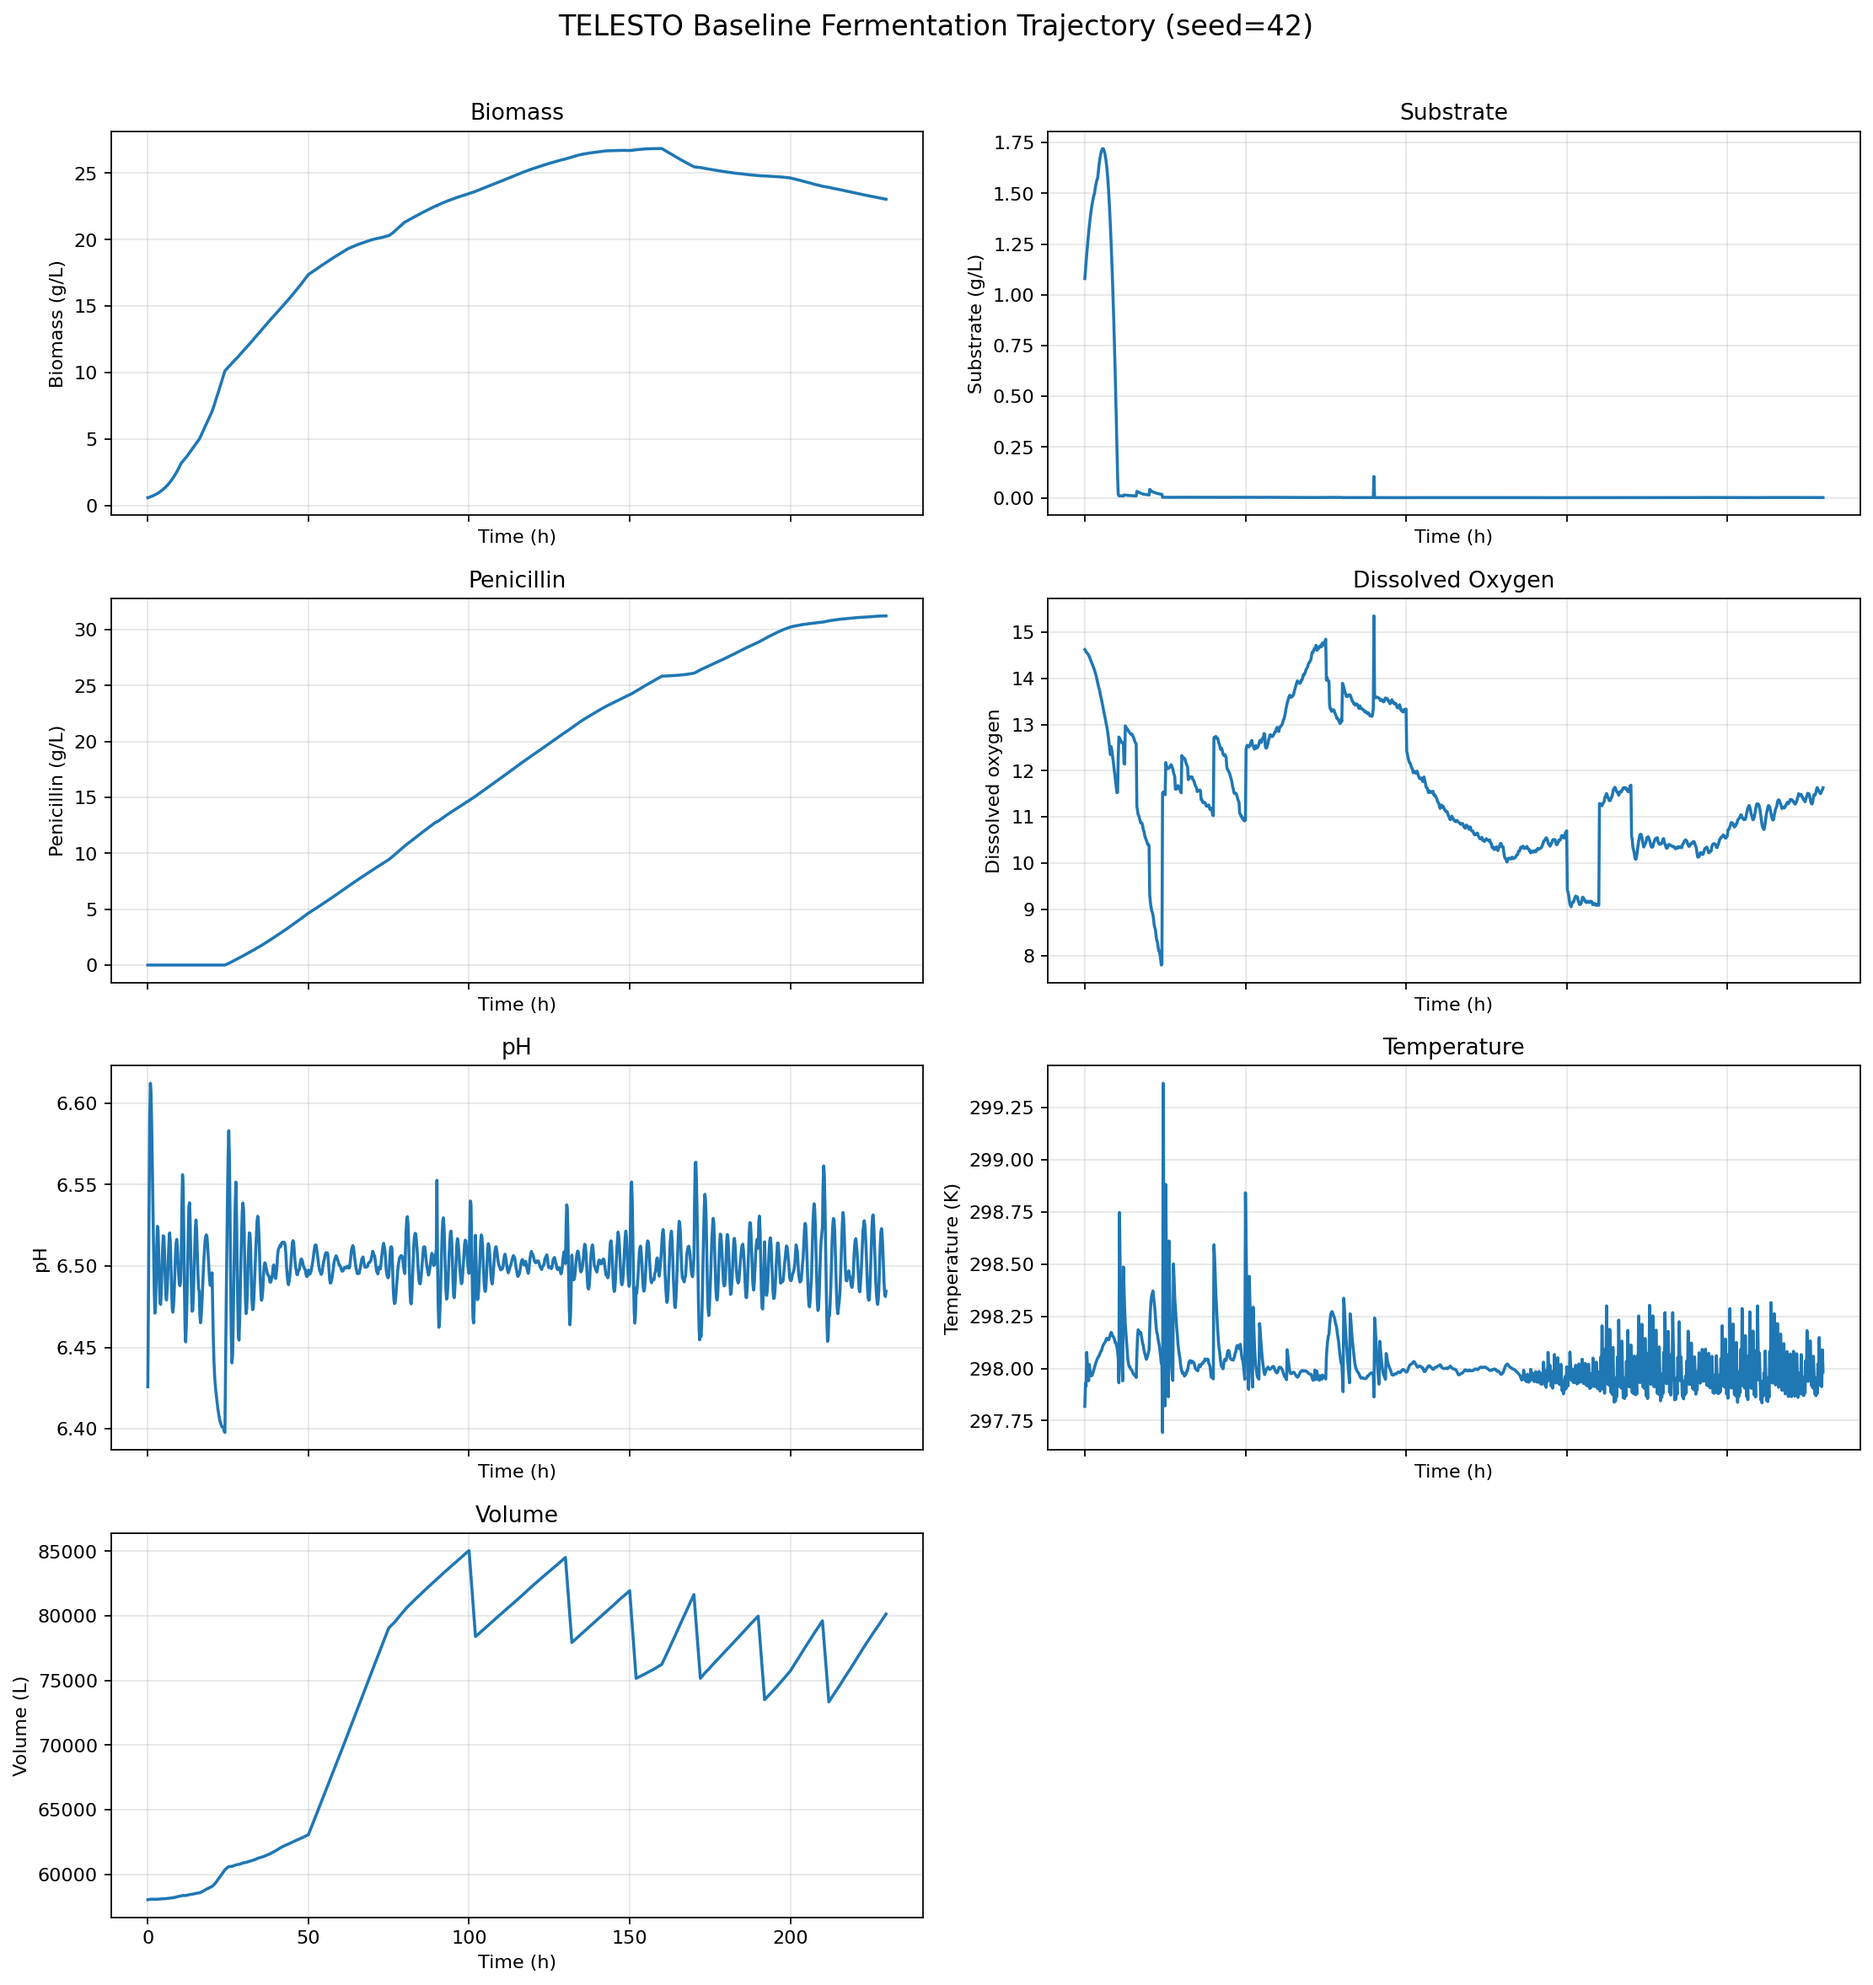
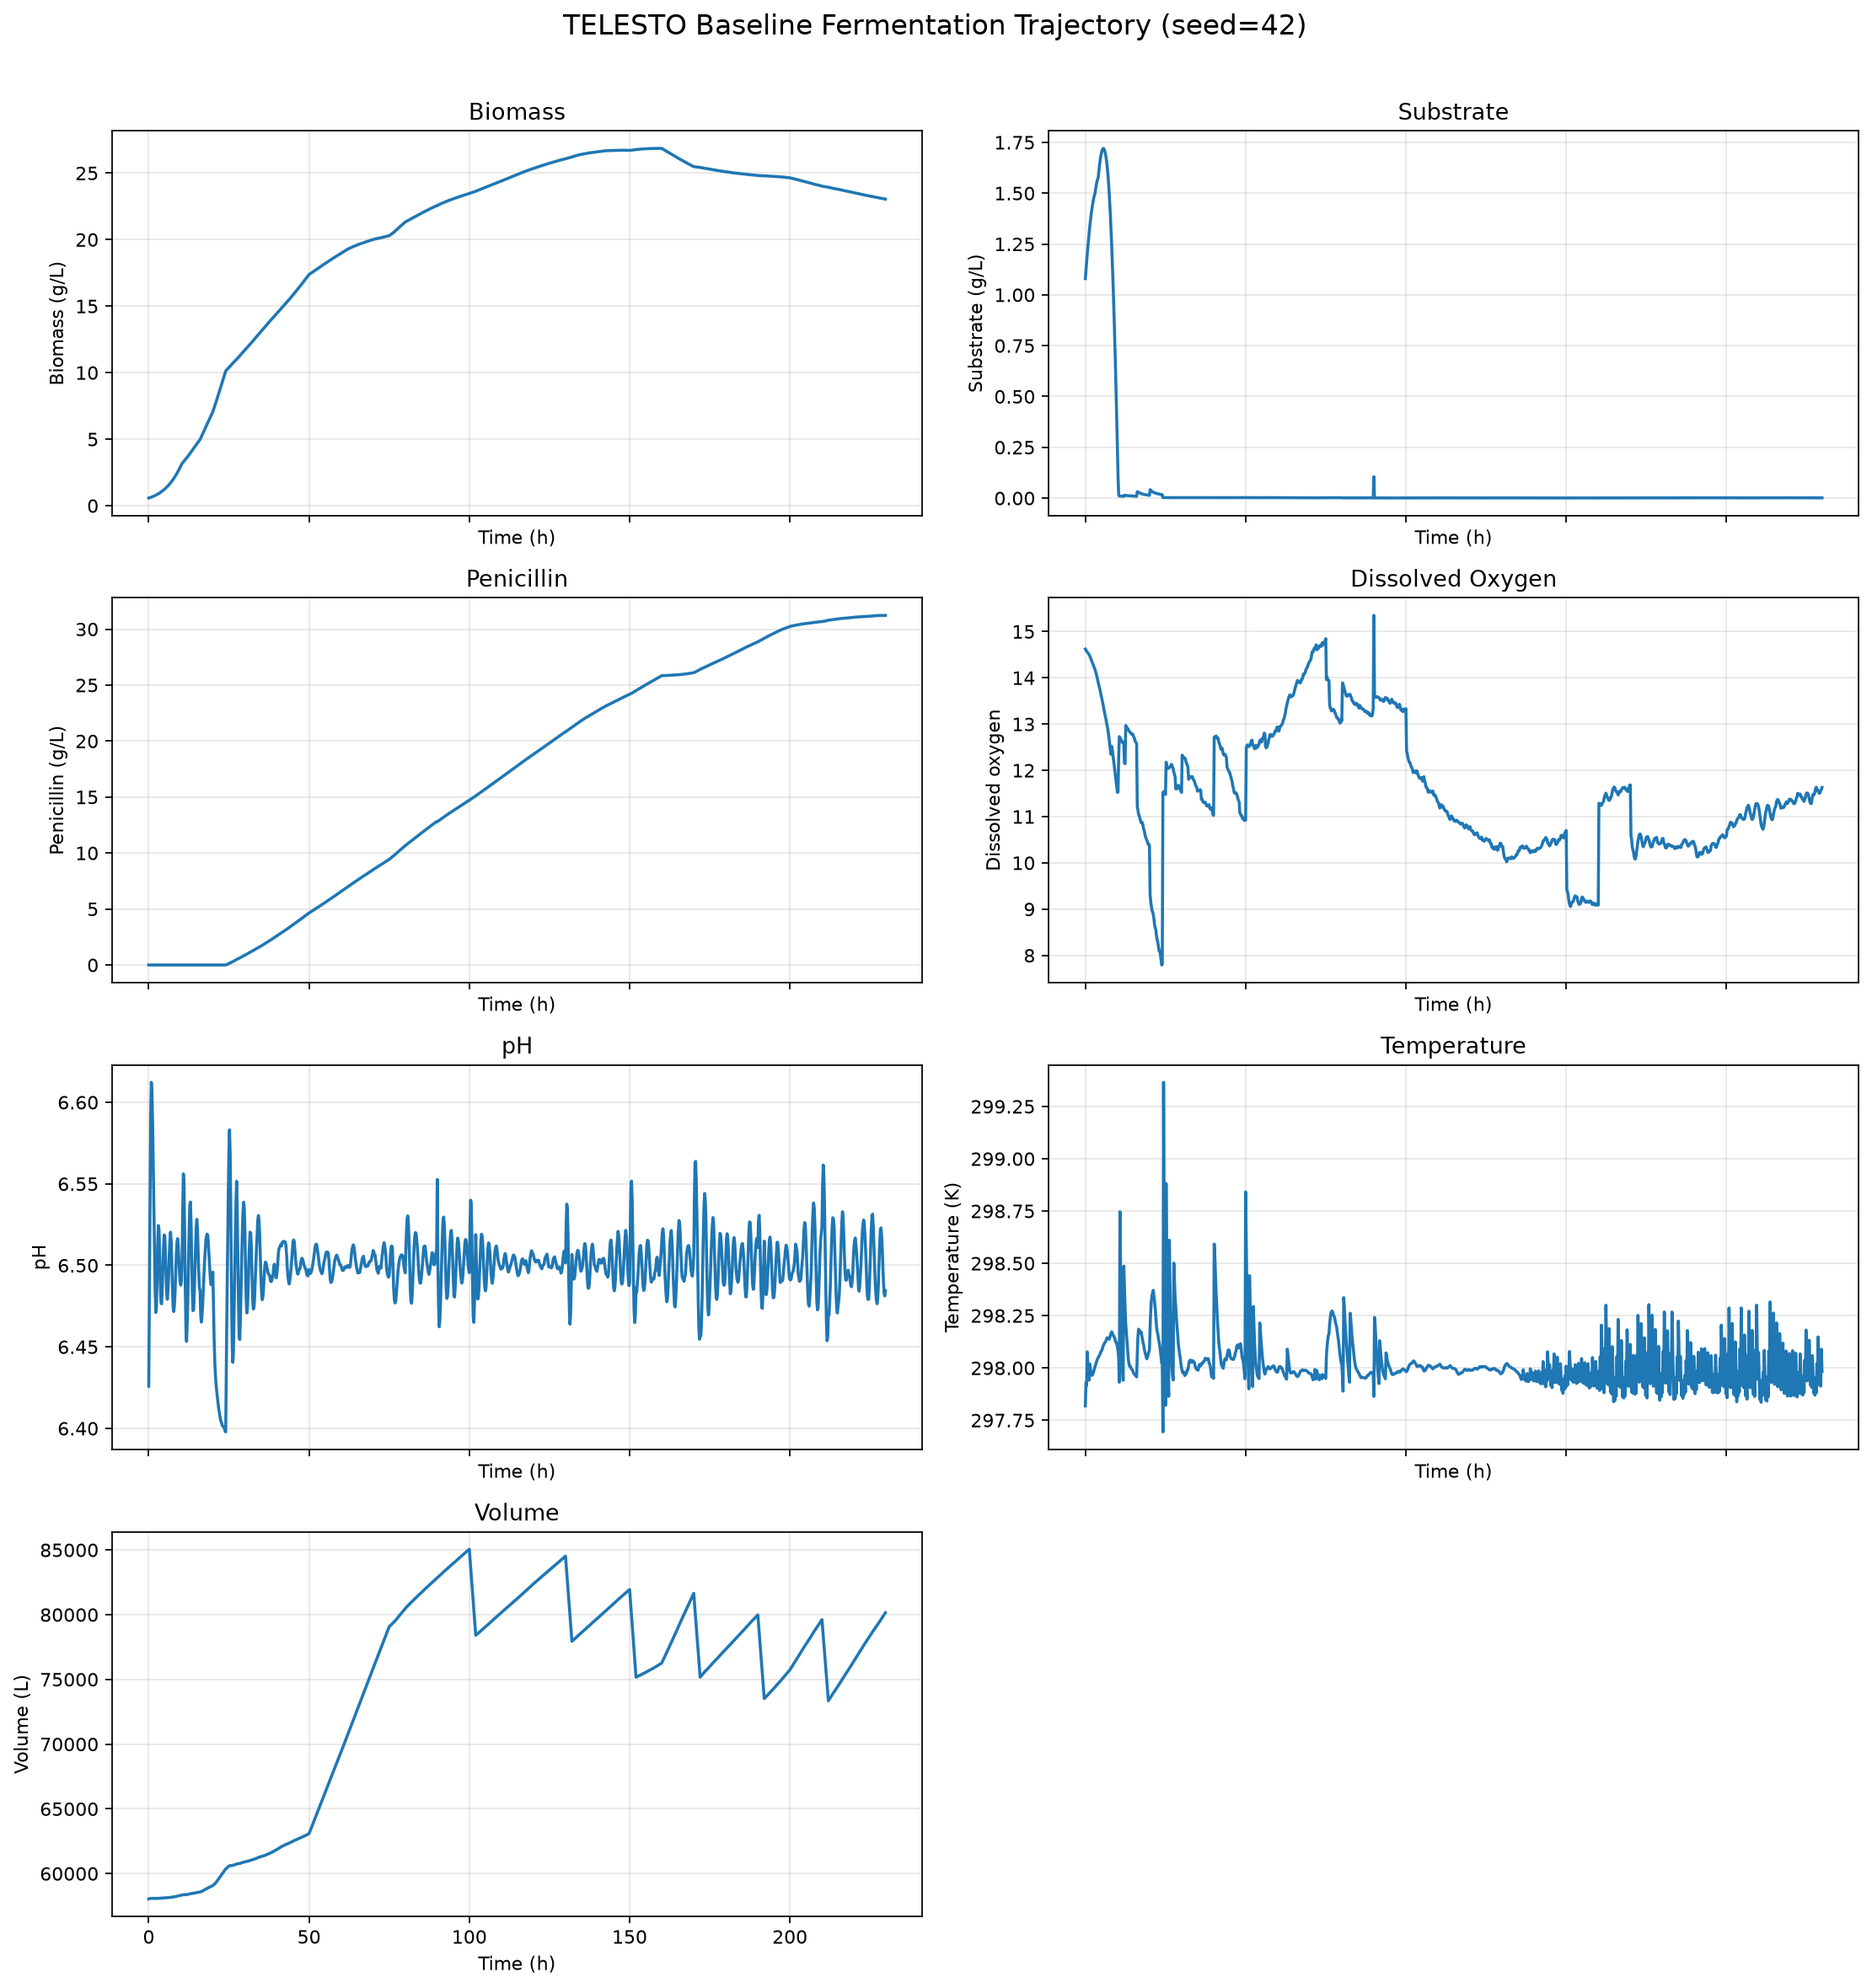
Complete Phase 1 fermentation exit review

diff --git a/tests/test_fermentation_reproducibility.py b/tests/test_fermentation_reproducibility.py
@@ -1,11 +1,46 @@
 import numpy as np
+import pytest
 
-from biocontrolos.process.fermentation.simulator import FermentationSimulator
+from biocontrolos.process.fermentation.simulator import (
+    FermentationBatch,
+    FermentationSimulator,
+)
 
 
-def test_same_seed_produces_same_batch():
+@pytest.fixture(scope="module")
+def seeded_batches() -> tuple[FermentationBatch, FermentationBatch, FermentationBatch]:
     batch_1 = FermentationSimulator(seed=42).run_batch()
     batch_2 = FermentationSimulator(seed=42).run_batch()
+    batch_3 = FermentationSimulator(seed=43).run_batch()
+    return batch_1, batch_2, batch_3
+
+
+def _major_trajectories(batch: FermentationBatch) -> tuple[np.ndarray, ...]:
+    return (
+        batch.biomass,
+        batch.substrate,
+        batch.penicillin,
+        batch.dissolved_oxygen,
+        batch.pH,
+        batch.temperature,
+        batch.volume,
+    )
+
+
+def test_baseline_batch_integrity(seeded_batches):
+    batch, _, _ = seeded_batches
+    trajectories = _major_trajectories(batch)
+
+    assert batch.samples > 0
+    assert batch.duration_hours > 0
+    assert np.all(np.isfinite(batch.time))
+    assert np.all(np.diff(batch.time) > 0)
+    assert all(len(values) == batch.samples for values in trajectories)
+    assert all(np.all(np.isfinite(values)) for values in trajectories)
+
+
+def test_same_seed_produces_same_batch(seeded_batches):
+    batch_1, batch_2, _ = seeded_batches
 
     np.testing.assert_array_equal(batch_1.time, batch_2.time)
     np.testing.assert_array_equal(batch_1.substrate, batch_2.substrate)
@@ -18,3 +53,16 @@ def test_same_seed_produces_same_batch():
     np.testing.assert_array_equal(batch_1.pH, batch_2.pH)
     np.testing.assert_array_equal(batch_1.temperature, batch_2.temperature)
     np.testing.assert_array_equal(batch_1.volume, batch_2.volume)
+
+
+def test_different_seed_changes_at_least_one_trajectory(seeded_batches):
+    batch_1, _, batch_3 = seeded_batches
+
+    assert any(
+        not np.array_equal(first, third)
+        for first, third in zip(
+            _major_trajectories(batch_1),
+            _major_trajectories(batch_3),
+            strict=True,
+        )
+    )

diff --git a/tests/test_fermentation_adapter.py b/tests/test_fermentation_adapter.py
@@ -1,3 +1,5 @@
+import pytest
+
 from biocontrolos.process.base import Action, ActionKind
 from biocontrolos.process.fermentation.adapter import FermentationAdapter
 
@@ -60,6 +62,9 @@ def test_valid_control_action():
     )
 
     assert adapter.validate_action(action)
+
+    with pytest.raises(NotImplementedError, match="Action-conditioned transitions"):
+        adapter.transition_model(action)
 
 
 def test_invalid_control_action():

diff --git a/biocontrolos/process/fermentation/simulator.py b/biocontrolos/process/fermentation/simulator.py
@@ -195,5 +195,8 @@ class FermentationSimulator:
         if not np.all(np.isfinite(batch.time)):
             raise ValueError("Time trajectory contains non-finite values.")
 
+        if not np.all(np.diff(batch.time) > 0):
+            raise ValueError("Time trajectory must be strictly increasing.")
+
         if batch.duration_hours <= 0:
             raise ValueError("Simulation did not advance in time.")

diff --git a/docs/simulator_provenance.md b/docs/simulator_provenance.md
@@ -1,0 +1,114 @@
+# Simulator provenance
+
+## Identity and purpose
+
+- **Simulator:** IndPenSim V2 Python translation (`pensimpy-simulator`)
+- **Local path:** `external/pensimpy-simulator/`
+- **Upstream named by the local README:**
+  `https://github.com/ErnstHolger/pensimpy-simulator`
+- **Underlying research model:** IndPenSim industrial-scale fed-batch
+  penicillin fermentation benchmark
+- **Use in TELESTO:** simulation research testbed for Phase 1 integration and
+  repeatability experiments
+
+IndPenSim is used as a simulation research testbed.
+
+TELESTO does not claim ownership of the underlying simulator.
+
+Current results are simulated results and do not constitute laboratory,
+clinical, manufacturing, or industrial validation.
+
+## Version and license status
+
+The local simulator directory does not contain `.git` metadata, a commit
+identifier, a release tag, or a license file. Therefore:
+
+- the exact upstream commit represented by the local copy is **unverified**;
+- equivalence to the current upstream repository is **unverified**;
+- the license of this exact local translation is **not identifiable from the
+  checked-out files**.
+
+The related `Mohan-Zhang-u/PenSimPy` project advertises an MIT license, but that
+license must not be assumed to cover this separate local translation without
+provenance evidence. Pinning an upstream source, commit, and license is required
+before redistribution or release decisions.
+
+## TELESTO integration
+
+`biocontrolos/process/fermentation/simulator.py` loads the external simulator
+under a private module namespace and converts selected channels into the
+TELESTO-owned `FermentationBatch` type. It also:
+
+- applies an optional NumPy seed while restoring the caller's random state;
+- exposes time, biomass, substrate, penicillin, dissolved oxygen, pH,
+  temperature, and volume;
+- checks non-empty output, equal trajectory lengths, finite values, strictly
+  increasing time, and positive duration.
+
+`biocontrolos/process/fermentation/adapter.py` maps that batch into the generic
+TELESTO `ProcessAdapter` interface. It does not modify the external simulator.
+
+## Verified software environment
+
+The Phase 1 exit review used:
+
+- Python `3.13.14`
+- NumPy `2.5.3`
+- SciPy `1.18.1`
+- Matplotlib `3.11.2`
+
+Project dependency ranges remain defined in `pyproject.toml`.
+
+## Baseline experimental record
+
+The versioned record is `configs/fermentation_baseline.toml`:
+
+- seed: `42`
+- batch fault reference: `0`
+- control strategy: `0`
+- batch length mode: `0`
+- Raman mode: `0`
+- nominal external sample interval: `0.2 h`
+- nominal external horizon: `230 h`
+
+The TOML is currently a **versioned experimental record**, not a runtime-loaded
+configuration source. Runtime defaults are defined in
+`FermentationSimulator`; interface schemas, provisional actuator limits, and
+relative measurement costs are defined in `FermentationAdapter`.
+
+## Local modifications
+
+No external simulator files were modified during the Phase 1 exit review.
+Because the local copy has no Git metadata, earlier local modifications or
+differences from upstream cannot be established confidently.
+
+## Known limitations
+
+- TELESTO runs complete batches; it does not yet provide an action-conditioned
+  step interface into IndPenSim.
+- `WAIT` advances through an already generated baseline trajectory.
+- TELESTO `CONTROL` actions are validated structurally but do not alter future
+  simulator states and deliberately raise `NotImplementedError`.
+- Actuator ranges and measurement costs are provisional research-interface
+  values, not validated equipment or economic limits.
+- The external simulator uses built-in recipe and PID behavior internally;
+  that is distinct from a TELESTO-controlled closed loop.
+- With batch-length mode `1`, the external runner calls
+  `np.random.seed(None)`, which bypasses deterministic TELESTO seeding. The
+  Phase 1 baseline uses mode `0`.
+- The external discharge channel uses negative values for outflow. Its console
+  “harvested during the batch” statistic sums signed discharge times product
+  concentration and therefore prints a negative value. This signed statistic
+  is not a validated TELESTO KPI.
+- Raman mode is disabled in the baseline and may require an external reference
+  spectra file when enabled.
+
+## Primary references
+
+- Goldrick et al., “The development of an industrial-scale fed-batch
+  fermentation simulation,” *Journal of Biotechnology* 193 (2015), 70–82.
+  https://doi.org/10.1016/j.jbiotec.2014.10.029
+- Local README-named translation source:
+  https://github.com/ErnstHolger/pensimpy-simulator
+- Related PenSimPy implementation:
+  https://github.com/Mohan-Zhang-u/PenSimPy

diff --git a/docs/progress/README.md b/docs/progress/README.md
@@ -19,7 +19,10 @@ We:
 
 ## Phase 1 — Fermentation digital twin
 
-**Status: In progress**
+**Status: Baseline integration validated; interactive control incomplete**
+
+- **Phase 1A — Baseline digital-twin integration:** complete
+- **Phase 1B — Interactive/action-conditioned control interface:** incomplete
 
 We:
 
@@ -29,21 +32,36 @@ We:
   Python import conflicts;
 - declared and installed NumPy and SciPy as runtime dependencies;
 - added a simulator smoke test that uses the TELESTO wrapper;
+- implemented the fermentation `ProcessAdapter` state, observation, reward,
+  constraint, sensor, actuator, and action-validation interfaces;
+- exposed biomass, substrate, penicillin, dissolved oxygen, pH, temperature,
+  and volume through TELESTO-owned types;
+- established a versioned seed-42 baseline configuration record;
+- verified same-seed reproducibility and different-seed variation;
+- added numerical data-integrity and strictly increasing time checks;
+- added baseline batch and trajectory-plot scripts;
+- recorded simulator provenance and known interpretation limits;
 - successfully ran a complete simulated batch with 1,150 samples over 229.8
   simulated hours;
-- verified the existing architecture tests.
+- verified the architecture and fermentation integration tests.
 
-Still required before Phase 1 is complete:
+### Gating item before closed-loop control experiments
 
-- implement the full fermentation `ProcessAdapter` contract;
-- define versioned state, observation, action, outcome, and constraint schemas;
-- record simulator provenance and deterministic configuration;
-- add adapter-to-simulator equivalence and reproducibility tests;
-- add trajectory visualization and documented validation scenarios.
+`WAIT` currently advances along a precomputed baseline trajectory. Although
+substrate-feed, aeration, and agitation actions exist in the adapter interface,
+they do not yet alter future simulator states; `transition_model()` deliberately
+raises `NotImplementedError` for `CONTROL`.
+
+Before PID, MPC, or RL comparisons begin, TELESTO must implement and test an
+action-conditioned transition interface into the fermentation simulator.
+
+Additional provenance work remains: pin the external simulator to a verified
+upstream commit and license. The negative signed harvested-product statistic is
+documented but must not be treated as a validated KPI.
 
 ## Later phases
 
 Control baselines, regime shifts, uncertainty estimation, adaptive decision
 policies, information acquisition, counterfactual evaluation, memory, and the
-LLM knowledge interface remain planned. They should begin only when the
-preceding phase satisfies its documented exit criteria.
+LLM knowledge interface remain planned. Closed-loop control baselines should
+begin only after action-conditioned process dynamics are available.

diff --git a/README.md b/README.md
@@ -200,7 +200,9 @@ flowchart TD
 > **Current principle: environment before intelligence.**
 
 We are **not** starting with RL or an LLM.  
-The first task is to build and validate the fermentation environment.
+Baseline fermentation integration and seeded batch replay are validated.
+Interactive, action-conditioned transitions remain the gating item before
+closed-loop PID, MPC, or RL experiments.
 
 ---
 
